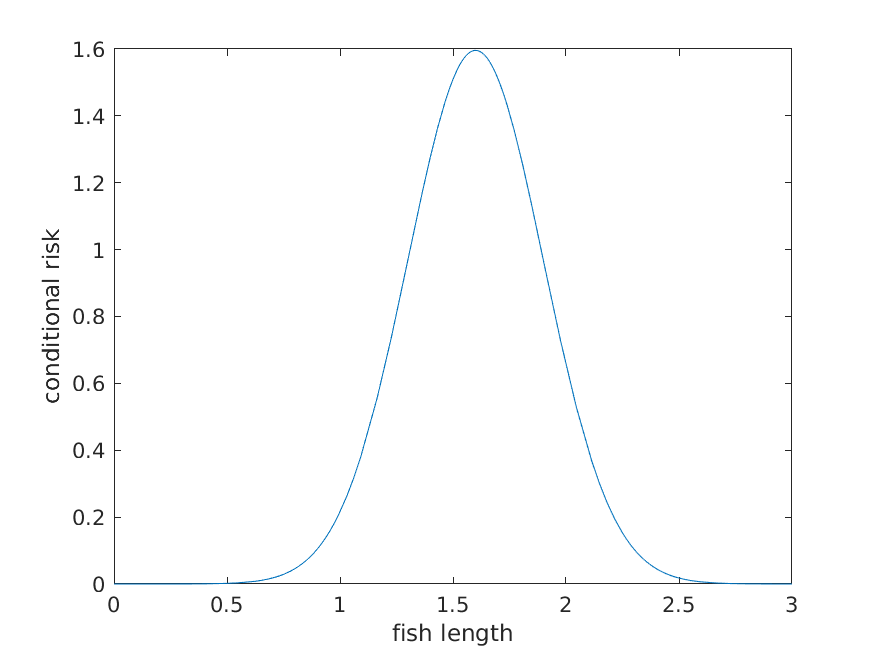
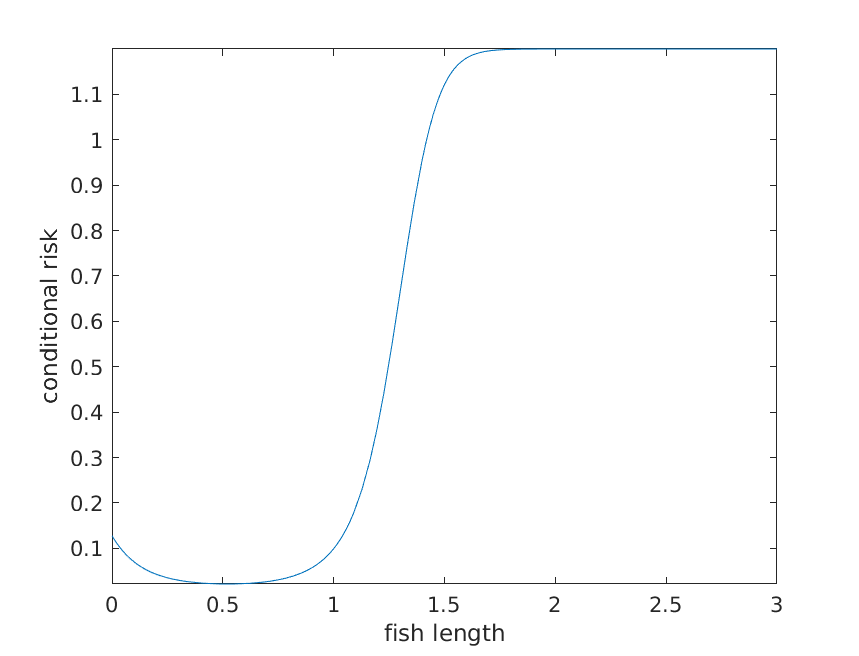
changing the cond risk in q3

diff --git a/assignment2_data/functions/fish_classifier.m b/assignment2_data/functions/fish_classifier.m
@@ -55,10 +55,10 @@ salmon_wrong = integral(@(x) normpdf(x,mu_salmon, sigma_salmon), -Inf, schnittpu
 risk_salmon = seabass_wrong * 0.5;
 risk_seabass = salmon_wrong * 1.2;
     function[y] = cond_risk_salmon(x)
-        y = normpdf(x, mu_seabass, sigma_seabass) * 0.5;
+        y = apost(x, 1) * 0.5;
     end
     function[y] = cond_risk_seabass(x)
-         y = normpdf(x, mu_salmon, sigma_salmon) * 1.2;
+         y = apost(x, 2) * 1.2;
     end
 cond_risk = fplot(@(x) cond_risk_salmon(x),[0 3]);
 xlabel('fish length');
